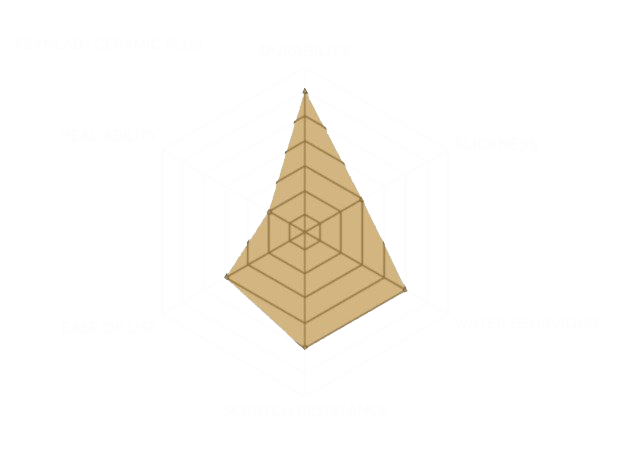
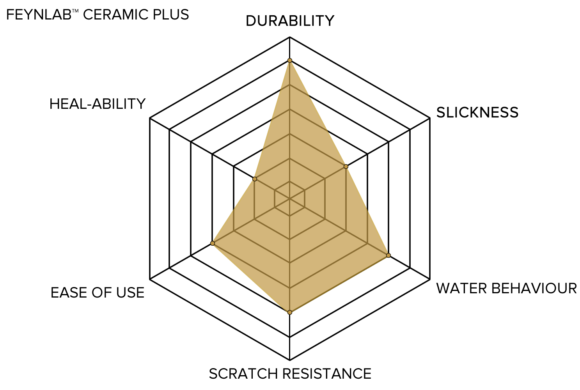
updated coating images

diff --git a/src/pages/Coatings/data/feynlab.js b/src/pages/Coatings/data/feynlab.js
@@ -12,7 +12,7 @@ import FeynlabCeramicPlusDiagram from '../../../assets/feynlab-ceramic-plus-diag
 import FeynlabCeramicBottleImage from '../../../assets/feynlab-ceramic-bottle.png';
 import FeynlabCeramicDiagram from '../../../assets/feynlab-ceramic-diagram.png';
 import FeynlabHealLiteBottleImage from '../../../assets/feynlab-heal-lite-bottle.png';
-import FeynlabHealLiteBottleDiagram from '../../../assets/feynlab-heal-lite-diagram.png';
+import FeynlabHealLiteBottleDiagram from '../../../assets/feynlab-heal-lite-diagram.jpg';
 import WheelsOffImage from '../../../assets/feynlab-wheels-off.jpg';
 import HydroMarinePackageBottle from '../../../assets/feynlab-hydro-marine-bottle.png';
 
@@ -77,7 +77,7 @@ export const CeramicLite = () => (
             </ul>
         </Section>
         <Section>
-         <FeaturedImage width='auto' height='500px' size='contain' image={FeynlabCeramicLiteDiagram} bgColor='#333' />
+         <FeaturedImage width='auto' height='500px' size='contain' image={FeynlabCeramicLiteDiagram} />
         </Section>
     </Section>
 );
@@ -98,7 +98,7 @@ export const CeramicPlus = () => (
             </ul>
         </Section>
         <Section>
-         <FeaturedImage width='auto' height='500px' size='contain' image={FeynlabCeramicPlusDiagram} bgColor='#333' />
+         <FeaturedImage width='auto' height='500px' size='contain' image={FeynlabCeramicPlusDiagram} />
         </Section>
     </Section>
 );
@@ -138,7 +138,7 @@ export const HealLitePackage = () => (
             </ul>
         </Section>
         <Section>
-         <FeaturedImage width='auto' height='500px' size='contain' image={FeynlabHealLiteBottleDiagram} bgColor='#333' />
+         <FeaturedImage width='auto' height='500px' size='contain' image={FeynlabHealLiteBottleDiagram} />
         </Section>
     </Section>
 );

diff --git a/src/assets/global-styles.js b/src/assets/global-styles.js
@@ -15,6 +15,7 @@ export default createGlobalStyle`
         background-repeat: repeat;
 
         font-size: 18px;
+        letter-spacing: 1.2px;
         font-family: ${props => props.theme.fonts.family};
         color: ${props => props.theme.fonts.color};
 
